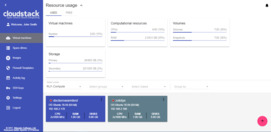
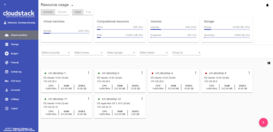
docs(readme.md) feature descriptions changed (closes #666) (#675)

diff --git a/README.md b/README.md
@@ -14,13 +14,14 @@ Table of Contents
       * [Far Away To Do's](#far-away-to-dos)
       * [Screenshots and Features descriptions](#screenshots--features-descriptions)
          * [Login view](#login-view)
-         * [Virtual machines view](#virtual-machines-view)
+         * [Virtual machines](#virtual-machines-view)
          * [New virtual machine form](#new-virtual-machine-form)
          * [Resource usage bar](#resource-usage-bar)
-         * [Templates and ISOs view](#templates--isos-view)
-         * [Firewall Templates View](#firewall-templates-view)
-         * [Spare Drives View](#spare-drives-view)
-         * [Activity log view](#activity-log-view)
+         * [Storage](#storage)
+         * [Images](#images)
+         * [Firewall](#firewall)
+         * [Activity log](#activity-log)
+         * [Accounts](#accounts)
    * [Documentation](#documentation)
       * [Deployment](#deployment)
       * [Configuration Options](#configuration-options)
@@ -42,7 +43,7 @@ The project is developed by Bitworks Software Frontend Division within the educa
 
 ## Implementation Details
 
-* Designed compatible with [Apache CloudStack](http://cloudstack.apache.org/) 4.9 and hasn't tested for the previous versions of CS
+* Designed compatible with [Apache CloudStack](http://cloudstack.apache.org/) 4.10 and has been tested for the previous version of CS (4.9).
 * Powered by [Angular](https://angular.io/) and [Material 2](https://material.angular.io/).
 * Tested and works fine in next modern browsers
    * Google Chrome 60.0.3112.78
@@ -53,7 +54,7 @@ The project is developed by Bitworks Software Frontend Division within the educa
 
 ## Features Supported
 
-Actual Changelog can be found in GitHub's [wiki](https://github.com/bwsw/cloudstack-ui/wiki/Changelog).
+Actual Changelog can be found [here](https://github.com/bwsw/cloudstack-ui/blob/master/CHANGELOG.md).
 
 Since we designed the product from the perspective of well-known use cases, which are common to our public cloud deployment, we implemented only ones which are 100% required and cover most of use cases. Other deployments may imply other requirements, which is why it’s an open source product.
 
@@ -76,12 +77,21 @@ So, what is supported:
 * Password management
 * SSH keys management
 * API keys management
+* Accounts management
 * A lot of small improvements which affect  user experience greatly
 
 ## Plugins Supported
 
-* [Pulse Plugin](https://github.com/bwsw/cloudstack-ui/wiki/Pulse-Plugin-Deployment) - supports visualization of VM runtime stats (CPU, RAM, IO, network traffic) with charts;
-* [WebShell Plugin](https://github.com/bwsw/cloudstack-ui/wiki/WebShell-Plugin-Deployment) - supports clientless SSH access to VMs.
+**Pulse plugin**
+
+Pulse Plugin is designed for visualization of virtual machines performance statistics. Currently this CloudStack-UI extension is only compatible with ACS clusters that use the KVM hypervisor. With help of sensors that collect virtual machines performance statistics via the Libvirt API and store them in an InfluxDB datastore and RESTful statistics server, CloudStack-UI is able to display CPU, RAM,disk IO and network traffic utilization in the form of convenient visual charts.
+Pulse allows users of Apache CloudStack to monitor current and previous operational states of virtual machines. The plugin supports various view scales like minutes, hours, days and enables data overlays to monitor peak and average values.
+We consider this plugin very important for the CloudStack ecosystem as currently there is no built-in functionality to track VM operational states, although it is vital for system administrators to successfully operate virtual servers. Read more about Plugin deployment [here](https://github.com/bwsw/cloudstack-ui/wiki/Pulse-Plugin-Deployment). 
+
+**WebShell Plugin**
+
+WebShell is a CloudStack-UI extension designed to perform a clientless SSH connection to a virtual machine. The extension is activated in the CloudStack-UI configuration file and is supported by an additional Docker container. As for the way of WebShell usage, the plugin is similar to NoVNC interface provided by CloudStack. However, WebShell uses the SSH protocol and doesn’t allow VM emergency management.
+This feature is not available in basic CloudStack UI and API. Plugin deployment and configuration instructions can be found on [the plug-in page](https://github.com/bwsw/cloudstack-ui/wiki/WebShell-Plugin-Deployment).
 
 ## Features Yet Unsupported
 
@@ -110,7 +120,7 @@ We intensively use features like projects in our own CloudStackcloud to manage r
 
 #### Login view
 
-Just a simple login screen. Nothing really new. But it has a nice preloader which can be used to brand it for specific company. By default it shows Apache CloudStack banner.
+The login screen has a nice preloader which can be used to brand it for specific company. By default it shows Apache CloudStack banner. There are three possible ways to use domain (the form presented on the screen like in native UI, default domain in settings or an URL-based scheme).
 
 <a href="https://raw.githubusercontent.com/bwsw/cloudstack-ui/master/screens/loginView.png" target="_blank">![Login screen](./screens/loginView_mini.png)</a>
 
@@ -118,52 +128,67 @@ Just a simple login screen. Nothing really new. But it has a nice preloader whic
 
 This screen was rethought greatly. First of all, we implemented the “one step” approach everywhere, and we also made it work without moving from view to view, like ACS native interface does. Thus, all actions on VM instances are managed from the same screen. Also, the interface allows to view several zones immediately, group virtual machines by zones, by logical groups (e.g. Databases, WWW), and by colors.
 We added a feature to brush a virtual machine with a specific color to make it look unique and meaningful to users from a certain perspective.
-Also we moved most of VM information to the sidebar, which now has two tabs - the first one is for the general view and virtual-machine related activities (like security groups, additional ips) and the second one is for virtual machine storage management (disks, snapshots, and ISO).
-From the system behavior standpoint, we have changed it sometimes, e.g. when the user wants to change service offering for running VM, the interface says that VM will be stopped and started, and it doesn’t make the user do it separately. So we replaced disconnected action sequences with connected ones.
+Also we moved most of VM information to the sidebar, which now has four tabs - General view, Storage (disks, snapshots, and ISO), Network (NICs configuration, Firewall rules) and Tags.
+From the system behavior standpoint, we have changed it sometimes, e.g. when the user wants to change service offering for running VM, the interface says that VM will be stopped and started, and it doesn’t make the user do it separately. So we replaced disconnected action sequences with connected ones. The data representation can be changed between the "card" and "table" view. Each section contains a switch and this improvement gives a user an opportunity to work with data in each specific section in a more convenient way.
 
-<a href="https://raw.githubusercontent.com/bwsw/cloudstack-ui/master/screens/vmView1.png" target="_blank">![Virtual Machine View screen 1](./screens/vmView1_mini.png)</a>&nbsp;&nbsp;
-<a href="https://raw.githubusercontent.com/bwsw/cloudstack-ui/master/screens/vmView2.png" target="_blank">![Virtual Machine View screen 2](./screens/vmView2_mini.png)</a>&nbsp;&nbsp;
-<a href="https://raw.githubusercontent.com/bwsw/cloudstack-ui/master/screens/vmView3.png" target="_blank">![Virtual Machine View screen 3](./screens/vmView3_mini.png)</a>
+<a href="https://raw.githubusercontent.com/bwsw/cloudstack-ui/master/screens/VMView1.png" target="_blank">![Virtual Machine View screen 1](./screens/VMView1_mini.png)</a>&nbsp;&nbsp;
+<a href="https://raw.githubusercontent.com/bwsw/cloudstack-ui/master/screens/VMView2.png" target="_blank">![Virtual Machine View screen 2](./screens/VMView2_mini.png)</a>&nbsp;&nbsp;
+<a href="https://raw.githubusercontent.com/bwsw/cloudstack-ui/master/screens/VMView3.png" target="_blank">![Virtual Machine View screen 3](./screens/VMView3_mini.png)</a>
 
 #### New virtual machine form
 
-We changed the new virtual machine screen a lot. Now it’s one-step and it allows to select everything from one screen without additional steps and so on. We believe it’s much better for a regular user than the one which is used in the native UI. It also generates meaningful VM names from usernames like `vm-<username>-<counter>`. Another important thing is that the form immediately checks that the user has the required amount of resources to create the virtual machine, and thus it doesn’t allow them to launch creation of impossible things which will fail for sure.
+We changed a new virtual machine screen a lot. Now it’s a one-step dialog and it allows selecting everything from one screen without additional steps. We believe it’s much better for a regular user than the one who is used with the native UI. It also generates meaningful VM names from usernames like `vm-<username>-<counter>`. Another important thing is that the form checks that a user has a required amount of resources to create the virtual machine immediately and thus it doesn’t allow him launching creation that will fail for sure.
+Our team has made a big contribution to the improvement of UX when creating a virtual machine. First of all, a user now has an access to the list of all creation steps. Depending on installation source (ISO or a Template) system allows getting not only login, password and IP of the machine, but also an access to VM interaction interface. Currently supported:
+- VNC console,
+- WebShell if VM has a csui.vm.auth-mode tag with SSH value. To configure access to VM using WebShell, please refer to [wiki](https://github.com/bwsw/cloudstack-ui/wiki/Tags),
+- Access via HTTP if VM has a csui.vm.auth-mode tag with HTTP value. To configure access to VM via HTTP, please refer to [wiki](https://github.com/bwsw/cloudstack-ui/wiki/Tags).
 
 <a href="https://raw.githubusercontent.com/bwsw/cloudstack-ui/master/screens/newVMView.png" target="_blank">![New Virtual Machine View](./screens/newVMView_mini.png)</a>
+<a href="https://raw.githubusercontent.com/bwsw/cloudstack-ui/master/screens/newVMView2.png" target="_blank">![New Virtual Machine View](./screens/newVMView2_mini.png)</a>
 
 #### Resource usage bar
 
-We also decided to place resource usage bar on the same virtual machine view screen. It can be collapsed or displayed. You also can see that the interface is in chocolate and blue colors. It’s because we enabled instant theme changing in the settings area. Material Design allows doing it natively, default theme colors can be specified in configuration json file.
+We also decided to place resource usage bar on the same virtual machine view screen. It can be collapsed or displayed. A resource usage bar allows switching between "used" and "free" presentations to help users understanding capabilities in a better way. Domain administrators can also choose between Account and Domain view. 
 
 <a href="https://raw.githubusercontent.com/bwsw/cloudstack-ui/master/screens/resourceUsageBar.png" target="_blank">![New Virtual Machine View](./screens/resourceUsageBar_mini.png)</a>
 
-#### Templates & ISOs view
+#### Storage
+
+This panel displays existing drives. Root disks are visually distinguished from data disks. In addition, there is an option to display only spare disks, which allows saving user's time in certain cases. Each drive has a detailed sidebar with two tabs (Volume and Snapshots). When a virtual machine is removed, attached drives are automatically removed. Also, we don’t allow the user to create additional disks on a virtual machine creation because it leads to confusion when the virtual machine is created from a template – the user doesn’t realize that they add an “additional” drive and it’s not a root one.
+
+<a href="https://raw.githubusercontent.com/bwsw/cloudstack-ui/master/screens/spareDrivesView.png" target="_blank">![Firewall templates view 2](./screens/spareDrivesView_mini.png)</a>&nbsp;
+<a href="https://raw.githubusercontent.com/bwsw/cloudstack-ui/master/screens/spareDrivesView2.png" target="_blank">![Firewall templates view 2](./screens/spareDrivesView2_mini.png)</a>
+<a href="https://raw.githubusercontent.com/bwsw/cloudstack-ui/master/screens/spareDrivesView3.png" target="_blank">![Firewall templates view 2](./screens/spareDrivesView3_mini.png)</a>
+
+#### Images
 
 We changed the templates and ISOs view to make it more obvious and neat to use. Also, the user can choose the required OS family to filter out unnecessary images. Also the same concept of single view without moving between screens is applied here. Additional things are displayed in the sidebar.
 
 <a href="https://raw.githubusercontent.com/bwsw/cloudstack-ui/master/screens/templatesISOsView.png" target="_blank">![Templates & ISOs view](./screens/templatesISOsView_mini.png)</a>&nbsp;&nbsp;
 <a href="https://raw.githubusercontent.com/bwsw/cloudstack-ui/master/screens/templatesISOsView2.png" target="_blank">![Templates & ISOs view 2](./screens/templatesISOsView2_mini.png)</a>
 
-#### Firewall Templates View
+#### Firewall 
 
-So, here is somewhat of a controversial thing here. Actually, we don’t think the security group concept is quite clear for an average user. There is a reason. The user can not change the security group for a virtual machine, but he or she can change the rules inside of the security group; as a result those changes affect all the virtual machines which share the same group. From our experience it’s not what an average user expects. We tried to change it to make it work in a better way, so we created the “Firewall rules template” concept, which is a preset that can be system default or developed by the user, and those presets (many of them) can be used to specify for a newly created virtual machine. Upon creation the system creates a new security group for every virtual machine which is initially filled with all the rules from specified presets. Next, when the user changes the rules for a certain virtual machine, they don’t affect other machines. So, basically the interface disables sharing one security group between several virtual machines. Every virtual machine always gets a unique security group which is built from presets specified when the virtual machine was created. Also, system administrators can specify default presets during the interface deployment in json configuration file; now we have “TCP Permit All”, “UDP Permit All”, “ICMP Permit All” presets which just pass all the traffic because we would like the user who doesn’t read manuals and doesn’t mention the details to still make his virtual machines accessible.
+Firewall section includes two views: Firewall templates and Shared security groups.
+It is important to understand the concept of Firewall templates. This is a preset of rules that can be system default or developed by the user. Upon VM creation the system creates a new security group for every virtual machine which is initially filled with all the rules from specified presets. Next, when the user changes the rules for a certain virtual machine, they don’t affect other machines.
+System administrators can specify default presets during the interface deployment in json configuration file; now we have “TCP Permit All”, “UDP Permit All”, “ICMP Permit All” presets which just pass all the traffic because we would like the user who doesn’t read manuals and doesn’t mention the details to still make his virtual machines accessible.
+The second way is to use shared security group - the group that is used by other VMs. Users can manage security group rules in two modes: a "view" mode with filtering by types and protocols and an “edit” mode. Security groups editing is available when switching from "view" mode to "editing" mode. If the group is shared, user is warned that changes will affect other VMs using this group. This behavior allows avoiding undesirable changes for other VMs.
 
 <a href="https://raw.githubusercontent.com/bwsw/cloudstack-ui/master/screens/firewallTemplatesView.png" target="_blank">![Firewall templates view](./screens/firewallTemplatesView_mini.png)</a>&nbsp;&nbsp;
 <a href="https://raw.githubusercontent.com/bwsw/cloudstack-ui/master/screens/firewallTemplatesView2.png" target="_blank">![Firewall templates view 2](./screens/firewallTemplatesView2_mini.png)</a>
 
-#### Spare Drives View
-
-This panel displays only the drives which are detached from virtual machines. Original ACS UI has the “Storage” zone where the user can see all the drives, but we don’t think an average user needs such a function. Current ACS releases allow root volumes resizing, so fewer and fewer users require more than one drive. But, some deployments can have different storage offerings, so it’s still important to let the user work with additional drives, but in the native ACS UI we found that users often forget about additional drives and they assume they will be removed when the virtual machine is removed, so in 99% of the cases they don’t expect that they can be reused. So we made it work that way. All drives can be automatically removed on when a virtual machine is removed. The attached drives are not displayed in the “Spare drives” list, the drives that are detached are displayed there. Also, we don’t allow the user to create additional disks on a virtual machine creation because it leads to confusion when the virtual machine is created from a template – the user doesn’t realize that they add an “additional” drive and it’s not a root one.
-
-<a href="https://raw.githubusercontent.com/bwsw/cloudstack-ui/master/screens/spareDrivesView.png" target="_blank">![Firewall templates view 2](./screens/spareDrivesView_mini.png)</a>&nbsp;
-<a href="https://raw.githubusercontent.com/bwsw/cloudstack-ui/master/screens/spareDrivesView2.png" target="_blank">![Firewall templates view 2](./screens/spareDrivesView2_mini.png)</a>
-
-
-#### Activity log view
+#### Activity Log
 
 It’s a simplified view for account activities. It lets you choose the date and levels and see all of them. It’s close to the same screen in the ACS native UI, but we believe that the user is interested in the events of specific date and scrolling a huge event log back to find something is not productive. Sometimes the HelpDesk service just wants to show the user that something had happened on a specific date, and thus the interface allows you to find information easier.  
 
 <a href="https://raw.githubusercontent.com/bwsw/cloudstack-ui/master/screens/activityLog.png" target="_blank">![Activity Log screen](./screens/activityLog_mini.png)</a>
+
+#### Accounts
+
+Here domain administrators can manage existing accounts, create new accounts and apply filtering and grouping as in other sections. There is also an access to details sidebar of each account with a possibility of editing settings and resource restrictions. In addition to this, an administrator can apply filtering by accounts in other sections, thus narrowing a context and working with a data that he needs at the moment.
+
+<a href="https://raw.githubusercontent.com/bwsw/cloudstack-ui/master/screens/accounts1.png" target="_blank">![Activity Log screen](./screens/accounts1_mini.png)</a>
+<a href="https://raw.githubusercontent.com/bwsw/cloudstack-ui/master/screens/accounts2.png" target="_blank">![Activity Log screen](./screens/accounts2_mini.png)</a>
 
 # Documentation
 
